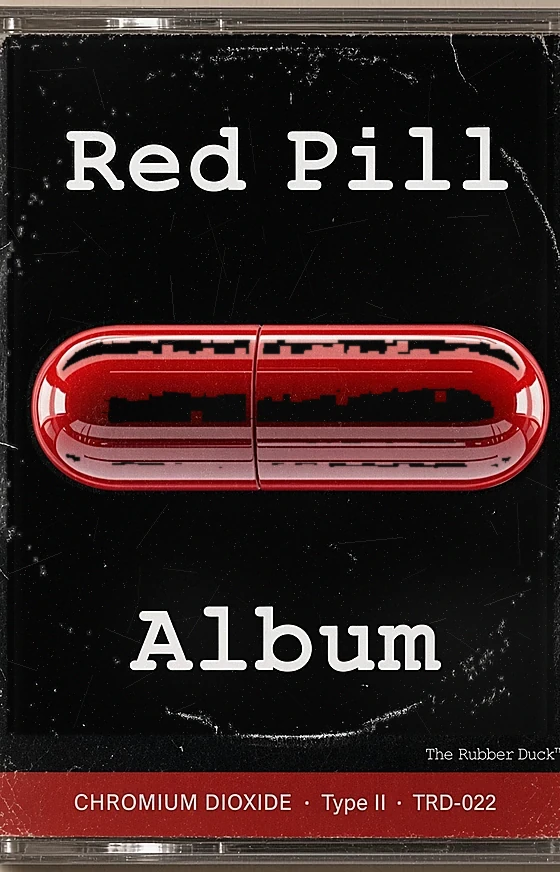
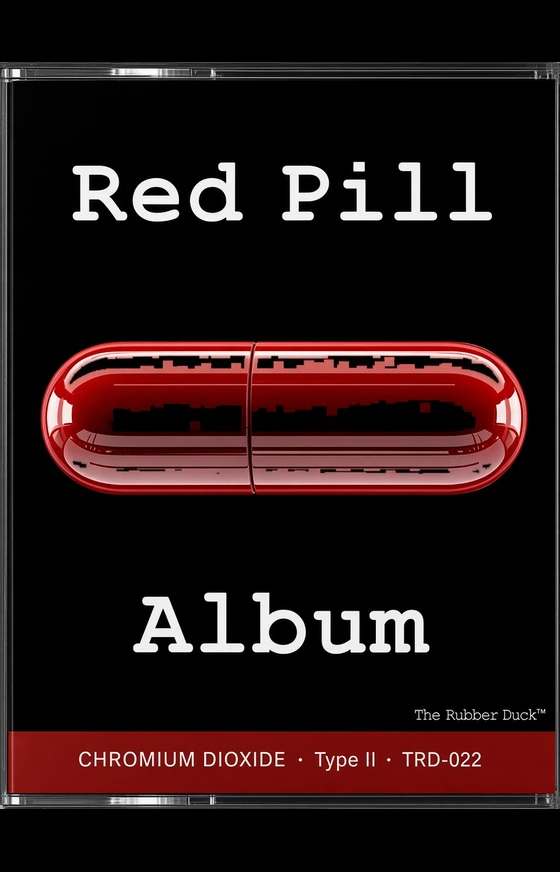
Homepage: faces on top; double-click skip; clean black Red Pill face

diff --git a/index.html b/index.html
@@ -222,65 +222,41 @@ body::before{content:"";position:fixed;inset:0;z-index:1;pointer-events:none;
 .stack-b .spine:nth-child(2){--off:-11px;--rot:-.9deg;--lift:5px}
 .stack-b .spine:nth-child(3){--off:8px;--rot:.5deg;--lift:-2px}
 
-/* ============ SPINE HOVER: upright aged Norelco J-card face (70×109) ============ */
-.spine-face{--sf-x:-50%;--sf-clamp-x:0px;--sf-clamp-y:0px;position:absolute;left:50%;bottom:calc(100% + 12px);z-index:60;
-  width:min(200px,48vw);max-width:220px;aspect-ratio:70/109;
+/* ============ SPINE HOVER: upright aged Norelco J-card face (70×109) ============
+   Hidden by default. When shown (hover / .is-face-open), JS pins position:fixed so the
+   face paints above banner, shop, and stacks. Double-click / double-tap skips into the room. */
+.spine-face{
+  position:absolute;left:50%;bottom:calc(100% + 12px);z-index:60;
+  width:min(168px,44vw);max-width:200px;aspect-ratio:70/109;
   opacity:0;pointer-events:none;
-  transform:translateX(calc(var(--sf-x) + var(--sf-clamp-x))) translateY(var(--sf-clamp-y)) perspective(920px) rotateY(-8deg) rotateX(6deg) translateY(8px) scale(.92);
+  transform:translateX(-50%) perspective(920px) rotateY(-8deg) rotateX(6deg) translateY(8px) scale(.92);
   transition:opacity .22s var(--ease),transform .28s var(--ease);
-  filter:drop-shadow(0 14px 22px rgba(0,0,0,.55))}
+  filter:drop-shadow(0 16px 28px rgba(0,0,0,.65))}
 .spine-face img{display:block;width:100%;height:100%;object-fit:cover;border-radius:3px;
   box-shadow:0 0 0 1px rgba(255,255,255,.28),0 0 0 2px rgba(30,20,10,.35)}
-/* desktop fine pointer: hover/focus reveal (touch uses .is-face-open instead) */
+.spine-face.is-floating{
+  position:fixed;left:0;top:0;bottom:auto;right:auto;
+  z-index:2147483640; /* above .trd-sup duck (2147483000) + banner/shop */
+  opacity:1;max-width:none; /* JS sets width; ignore .spine-face max-width after reparent */
+  transform:perspective(920px) rotateY(-3deg) rotateX(2deg) scale(1)}
 @media (hover:hover) and (pointer:fine){
-  .spine:hover .spine-face,.spine:focus-visible .spine-face{
-    opacity:1;transform:translateX(calc(var(--sf-x) + var(--sf-clamp-x))) translateY(var(--sf-clamp-y)) perspective(920px) rotateY(-4deg) rotateX(3deg) translateY(0) scale(1)}
+  .spine:hover .spine-face,.spine:focus-visible .spine-face,
+  .deck:hover .spine-face,.deck:focus-visible .spine-face{opacity:1}
 }
-/* touch/coarse: face open via JS class; face becomes the enter target */
-.spine.is-face-open .spine-face{
-  opacity:1;pointer-events:auto;cursor:pointer;
-  transform:translateX(calc(var(--sf-x) + var(--sf-clamp-x))) translateY(var(--sf-clamp-y)) perspective(920px) rotateY(-4deg) rotateX(3deg) translateY(0) scale(1)}
-/* prefer centered above spine; JS clampFace keeps fully in-viewport. Hang slightly outward of deck. */
-.stack-a .spine-face{--sf-x:-42%}
-.stack-b .spine-face{--sf-x:-58%}
-@media (max-width:720px){
-  .spine-face{width:min(200px,50vw);bottom:calc(100% + 8px)}
-  .stack-a .spine-face,.stack-b .spine-face{--sf-x:-50%}
+.spine.is-face-open .spine-face,
+.deck.is-face-open .spine-face,
+.spine-face.is-floating.is-face-open{
+  opacity:1;pointer-events:auto;cursor:pointer}
+.stacks,.stack,.deck{overflow:visible}
+@media (min-width:900px) and (min-height:500px){
+  .spine-face{width:min(230px,24vw);max-width:250px}
+  .deck .spine-face{width:min(270px,28vw);max-width:290px}
 }
-/* face open/hover: lift stage above banner/chrome so J-cards paint on top */
-body:has(.spine.is-face-open) .stage,
-body:has(.deck.is-face-open) .stage,
-body:has(.spine:hover) .stage,
-body:has(.deck:hover) .stage{z-index:5000}
-.stacks,.stack{overflow:visible}
-
-/* deck (Red Pill Album) upright Norelco face — same size language as spines */
-.deck{overflow:visible}
-.deck .spine-face{--sf-x:-50%;z-index:70;bottom:calc(100% + 10px);width:min(200px,48vw);max-width:220px}
-/* desktop / laptop: larger readable faces (~240–280px); after deck base so it wins */
-@media (hover:hover) and (pointer:fine) and (min-width:1024px){
-  .spine-face,.deck .spine-face{width:min(260px,28vw);max-width:280px}
-}
-/* phones: smaller tap faces — never the laptop hover size */
 @media (max-width:720px), (hover:none), (pointer:coarse){
-  .spine-face{width:min(200px,48vw);max-width:220px}
-  .deck .spine-face{width:min(200px,52vw);max-width:220px}
+  .spine-face{width:min(168px,44vw);max-width:200px}
+  .deck .spine-face{width:min(180px,48vw);max-width:210px}
 }
 
-@media (hover:hover) and (pointer:fine){
-  .deck:hover .spine-face,.deck:focus-visible .spine-face{
-    opacity:1;transform:translateX(calc(var(--sf-x) + var(--sf-clamp-x))) translateY(var(--sf-clamp-y)) perspective(920px) rotateY(-4deg) rotateX(3deg) translateY(0) scale(1)}
-}
-.deck.is-face-open .spine-face{
-  opacity:1;pointer-events:auto;cursor:pointer;
-  transform:translateX(calc(var(--sf-x) + var(--sf-clamp-x))) translateY(var(--sf-clamp-y)) perspective(920px) rotateY(-4deg) rotateX(3deg) translateY(0) scale(1)}
-@media (max-width:720px){
-  .deck .spine-face{width:min(200px,52vw);max-width:220px;bottom:calc(100% + 8px)}
-}
-.top{overflow:visible}
-
-
-/* ============ TRD COLLECTIBLES: a Main Street card shop entrance ============ */
 .shop{position:relative;display:flex;flex-direction:column;min-height:420px;border-radius:12px 12px 6px 6px;overflow:hidden;text-decoration:none;color:var(--brown);
   /* brick facade */
   background:
@@ -577,7 +553,7 @@ body:has(.deck:hover) .stage{z-index:5000}
             </span>
         </span>
         <span class="deck-keys" aria-hidden="true"><span class="key"><svg viewBox="0 0 24 24" aria-hidden="true" focusable="false"><path fill="currentColor" d="M11 6v12l-8.5-6zM21 6v12l-8.5-6z"/></svg></span><span class="key key-play"><svg viewBox="0 0 24 24" aria-hidden="true" focusable="false"><path fill="currentColor" d="M8 5.14v13.72a.5.5 0 0 0 .77.42l10.28-6.86a.5.5 0 0 0 0-.84L8.77 4.72A.5.5 0 0 0 8 5.14Z"/></svg><span class="kp-off">Press play</span><span class="kp-on">Open player</span></span><span class="key"><svg viewBox="0 0 24 24" aria-hidden="true" focusable="false"><path fill="currentColor" d="M13 6v12l8.5-6zM3 6v12l8.5-6z"/></svg></span><span class="key"><svg viewBox="0 0 24 24" aria-hidden="true" focusable="false"><rect x="6" y="6" width="12" height="12" rx="1" fill="currentColor"/></svg></span></span>
-        <span class="spine-face" aria-hidden="true"><img src="/assets/trd/img/cassettes/face-redpill.webp" width="560" height="872" alt="" decoding="async"></span>
+        <span class="spine-face" aria-hidden="true"><img src="/assets/trd/img/cassettes/face-redpill.webp?v=cleanblack1" width="560" height="872" alt="" decoding="async"></span>
       </a>
     </div>
 
@@ -659,137 +635,176 @@ body:has(.deck:hover) .stage{z-index:5000}
   document.addEventListener('trdpod:state',function(e){paint(e.detail);});
   paint(window.trdPod.state());
 })();
-/* upright Norelco faces: keep fully inside the fixed homepage viewport */
+/* upright Norelco faces: reparent to body + position:fixed so .spine/.deck transforms
+   cannot trap stacking — faces always paint above banner, shop, stacks, and .trd-sup */
 (function(){
-  var MARGIN=10;
-  function clampFace(host){
-    var face=host&&host.querySelector('.spine-face');
+  var MARGIN=12;
+  var home=new WeakMap();   /* face -> {parent, next} */
+  var byHost=new WeakMap(); /* host -> face */
+  function faceFor(host){
+    if(!host)return null;
+    var f=byHost.get(host);
+    if(f&&f.isConnected)return f;
+    f=host.querySelector('.spine-face');
+    if(f)byHost.set(host,f);
+    return f||null;
+  }
+  function remember(face){
+    if(home.has(face))return;
+    home.set(face,{parent:face.parentNode, next:face.nextSibling});
+  }
+  function restore(face){
+    var h=home.get(face); if(!h||!h.parent)return;
+    if(h.next&&h.next.parentNode===h.parent)h.parent.insertBefore(face,h.next);
+    else h.parent.appendChild(face);
+  }
+  function clearFloat(face){
     if(!face)return;
-    face.style.setProperty('--sf-clamp-x','0px');
-    face.style.setProperty('--sf-clamp-y','0px');
-    /* two frames so :hover / .is-face-open size settles before measure */
-    requestAnimationFrame(function(){
-      requestAnimationFrame(function(){
-        var vw=window.innerWidth||document.documentElement.clientWidth;
-        var vh=window.innerHeight||document.documentElement.clientHeight;
-        var isDeck=host.classList&&host.classList.contains('deck');
-        var deck=document.querySelector('.deck');
-        var keys=deck&&deck.querySelector('.deck-keys');
-        var inStackB=!!(host.closest&&host.closest('.stack-b'));
-        var inStackA=!!(host.closest&&host.closest('.stack-a'));
-        var dx=0,dy=0;
-        function rect(){return face.getBoundingClientRect()}
-        function apply(){
-          face.style.setProperty('--sf-clamp-x',dx+'px');
-          face.style.setProperty('--sf-clamp-y',dy+'px');
-        }
-        function overlaps(a,b){
-          if(!a||!b)return false;
-          return Math.min(a.right,b.right)-Math.max(a.left,b.left)>8 &&
-                 Math.min(a.bottom,b.bottom)-Math.max(a.top,b.top)>8;
-        }
-        function clampViewport(){
-          var r=rect();
-          if(r.left<MARGIN)dx+=MARGIN-r.left;
-          if(r.right>vw-MARGIN)dx+=(vw-MARGIN)-r.right;
-          apply();
-          r=rect();
-          /* top clamp is sacred on the fixed 100vh homepage — never undo */
-          if(r.top<MARGIN)dy+=MARGIN-r.top;
-          if(r.bottom>vh-MARGIN)dy+=(vh-MARGIN)-r.bottom;
-          apply();
-        }
-        clampViewport();
-        var r=rect();
-        /* deck face on PRESS PLAY: slide sideways or further DOWN — never back above the fold */
-        if(isDeck&&keys){
-          var k=keys.getBoundingClientRect();
-          if(overlaps(r,k)){
-            var pushR=(k.right+MARGIN)-r.left;
-            var pushL=(k.left-MARGIN)-r.right;
-            var pushDown=(k.bottom+MARGIN)-r.top;
-            if(r.right+pushR<=vw-MARGIN)dx+=pushR;
-            else if(r.left+pushL>=MARGIN)dx+=pushL;
-            else if(r.bottom+pushDown<=vh-MARGIN)dy+=pushDown;
-            apply();
-            clampViewport();
-            r=rect();
-          }
-        }
-        /* spine faces: clear deck / keys without escaping the viewport */
-        if(deck&&!isDeck){
-          var d=deck.getBoundingClientRect();
-          var k2=keys&&keys.getBoundingClientRect();
-          var hitKeys=k2&&overlaps(r,k2);
-          var hitDeck=overlaps(r,d);
-          if(hitKeys||hitDeck){
-            var box=hitKeys?k2:d;
-            var pushR2=(box.right+MARGIN)-r.left;
-            var pushL2=(box.left-MARGIN)-r.right;
-            var pushU=box.top-MARGIN-r.bottom;
-            var pushD=(box.bottom+MARGIN)-r.top;
-            if(inStackB&&r.right+pushR2<=vw-MARGIN)dx+=pushR2;
-            else if(inStackA&&r.left+pushL2>=MARGIN)dx+=pushL2;
-            else if(r.right+pushR2<=vw-MARGIN)dx+=pushR2;
-            else if(r.left+pushL2>=MARGIN)dx+=pushL2;
-            else if(r.top+pushU>=MARGIN)dy+=pushU;
-            else if(r.bottom+pushD<=vh-MARGIN)dy+=pushD;
-            apply();
-            clampViewport();
-          }
-        } else {
-          clampViewport();
-        }
-      });
-    });
+    face.classList.remove('is-floating');
+    face.classList.remove('is-face-open');
+    face.style.left='';face.style.top='';face.style.width='';
+    if(face.parentNode===document.body)restore(face);
   }
-  function bindHoverClamp(){
+  function placeFace(host){
+    var face=faceFor(host);
+    if(!face)return;
+    remember(face);
+    face._trdHost=host;
+    byHost.set(host,face);
+    if(face.parentNode!==document.body)document.body.appendChild(face);
+    function layout(){
+      var vw=window.innerWidth||document.documentElement.clientWidth;
+      var vh=window.innerHeight||document.documentElement.clientHeight;
+      var hr=host.getBoundingClientRect();
+      /* width must be set in JS: after reparent to body, .deck .spine-face CSS no longer matches */
+      var mob=window.matchMedia('(max-width:720px), (hover:none), (pointer:coarse)').matches;
+      var pc=window.matchMedia('(min-width:900px) and (min-height:500px)').matches;
+      var isDeck=host.classList.contains('deck');
+      var fw=pc?(isDeck?270:230):(mob?(isDeck?180:168):Math.min(200, Math.round(vw*0.44)));
+      var fh=Math.round(fw*109/70);
+      var left=hr.left+hr.width/2-fw/2;
+      var top=hr.top-fh-14;
+      if(top<MARGIN){
+        top=Math.min(hr.bottom+10, vh-fh-MARGIN);
+        if(top+fh>vh-MARGIN) top=MARGIN;
+      }
+      if(left<MARGIN)left=MARGIN;
+      if(left+fw>vw-MARGIN)left=vw-MARGIN-fw;
+      if(top+fh>vh-MARGIN)top=Math.max(MARGIN, vh-MARGIN-fh);
+      face.style.width=fw+'px';
+      face.style.maxWidth='none';
+      face.style.left=Math.round(left)+'px';
+      face.style.top=Math.round(top)+'px';
+      face.classList.add('is-floating');
+      if(host.classList.contains('is-face-open'))face.classList.add('is-face-open');
+    }
+    layout();
+    requestAnimationFrame(function(){requestAnimationFrame(layout);});
+  }
+  function onLeave(host){
+    clearFloat(faceFor(host));
+  }
+  function bind(){
     document.querySelectorAll('a.spine, a.deck').forEach(function(el){
-      el.addEventListener('mouseenter',function(){clampFace(el)});
-      el.addEventListener('focus',function(){clampFace(el)});
+      var f=el.querySelector('.spine-face'); if(f)byHost.set(el,f);
+      el.addEventListener('mouseenter',function(){placeFace(el)});
+      el.addEventListener('focus',function(){placeFace(el)});
+      el.addEventListener('mouseleave',function(){if(!el.classList.contains('is-face-open'))onLeave(el)});
+      el.addEventListener('blur',function(){if(!el.classList.contains('is-face-open'))onLeave(el)});
     });
   }
-  if(document.readyState==='loading')document.addEventListener('DOMContentLoaded',bindHoverClamp);
-  else bindHoverClamp();
+  if(document.readyState==='loading')document.addEventListener('DOMContentLoaded',bind);
+  else bind();
   window.addEventListener('resize',function(){
     var open=document.querySelector('a.spine.is-face-open, a.deck.is-face-open');
-    if(open)clampFace(open);
+    if(open)placeFace(open);
   });
-  window.__trdClampFace=clampFace;
+  window.__trdClampFace=placeFace;
+  window.__trdClearFace=onLeave;
+  window.__trdFaceFor=faceFor;
 })();
-/* touch/coarse: first tap opens cassette face; tap face to enter; retap/elsewhere/5s dismisses
-   deck (Red Pill Album): same pattern — first tap shows face (no trdPod yet); tap open face to play/enter */
+/* faces: single click/tap shows face; double-click / double-tap skips straight into the room
+   (PC + mobile). Touch also: tap open face to enter; retap host / elsewhere / 5s dismisses. */
 (function(){
   var fine=window.matchMedia('(hover:hover) and (pointer:fine)');
   var open=null,timer=null;
+  var lastTap={host:null,t:0};
+  var DBL=320;
   function isTouchUI(){return !fine.matches}
   function clearT(){if(timer){clearTimeout(timer);timer=null}}
-  function closeFace(){clearT();if(open){open.classList.remove('is-face-open');open=null}}
+  function closeFace(){
+    clearT();
+    if(open){
+      if(window.__trdClearFace)window.__trdClearFace(open);
+      open.classList.remove('is-face-open');
+      open=null;
+    }
+  }
   function openFace(host){
-    if(open&&open!==host)open.classList.remove('is-face-open');
+    if(open&&open!==host){
+      if(window.__trdClearFace)window.__trdClearFace(open);
+      open.classList.remove('is-face-open');
+    }
     open=host;host.classList.add('is-face-open');
     if(window.__trdClampFace)window.__trdClampFace(host);
+    var face=window.__trdFaceFor?window.__trdFaceFor(host):host.querySelector('.spine-face');
+    if(face)face.classList.add('is-face-open');
     clearT();timer=setTimeout(closeFace,5000);
   }
+  function go(host){
+    closeFace();
+    var href=host.getAttribute('href');
+    if(!href)return;
+    /* deck may launch player instead of navigating */
+    if(host.classList.contains('deck')&&host.hasAttribute('data-trd-pod-door')&&window.trdPod){
+      var cas=host.querySelector('.cas');
+      if(cas&&!window.trdPod.state().started){
+        window.trdPod.launchFrom(cas,href);
+        return;
+      }
+    }
+    window.location.href=href;
+  }
   document.addEventListener('click',function(e){
-    if(!isTouchUI())return;
     if(e.metaKey||e.ctrlKey||e.shiftKey||e.altKey||e.button)return;
     var face=e.target.closest&&e.target.closest('.spine-face');
     var spine=e.target.closest&&e.target.closest('a.spine');
     var deck=e.target.closest&&e.target.closest('a.deck');
     var host=spine||deck;
-    /* tap open face → allow navigation / trdPod launch */
-    if(face&&host&&host.classList.contains('is-face-open')){clearT();return}
-    if(host){
+    /* floated faces are on document.body — recover host from face._trdHost */
+    if(!host&&face&&face._trdHost)host=face._trdHost;
+    if(!host){if(open)closeFace();return}
+
+    var now=Date.now();
+    var isDbl=lastTap.host===host&&(now-lastTap.t)<DBL;
+    lastTap={host:host,t:now};
+
+    /* double-click / double-tap: skip face, enter room */
+    if(isDbl){
       e.preventDefault();
-      if(host.classList.contains('is-face-open'))closeFace();
-      else openFace(host);
+      e.stopPropagation();
+      go(host);
       return;
     }
-    if(open)closeFace();
+
+    /* desktop fine pointer: hover already shows face; single click navigates normally */
+    if(!isTouchUI()){
+      /* allow normal link click through (no preventDefault) except when clicking the floating face */
+      if(face){e.preventDefault();go(host)}
+      return;
+    }
+
+    /* touch: tap open face → enter (face may be on body, so navigate explicitly) */
+    if(face&&(host.classList.contains('is-face-open')||face.classList.contains('is-face-open'))){
+      e.preventDefault(); go(host); return;
+    }
+    e.preventDefault();
+    if(host.classList.contains('is-face-open'))closeFace();
+    else openFace(host);
   },true);
   fine.addEventListener('change',function(){if(fine.matches)closeFace()});
 })();
+
 </script>
 <!-- trd-support -->
 <style>
